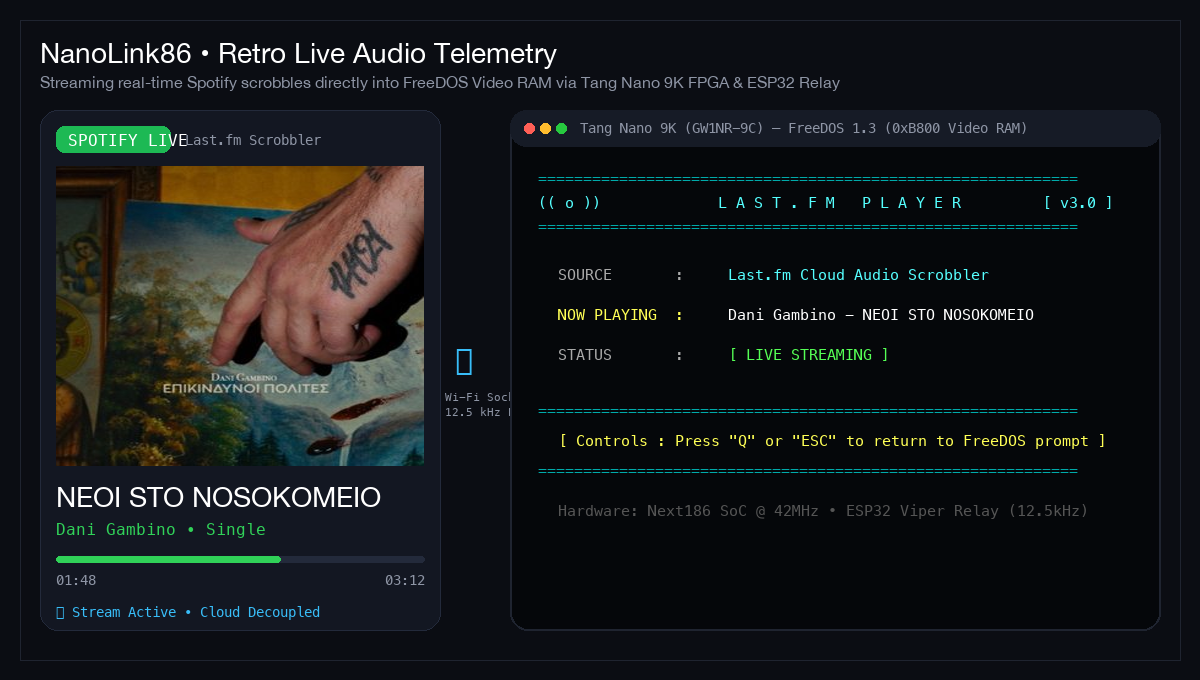
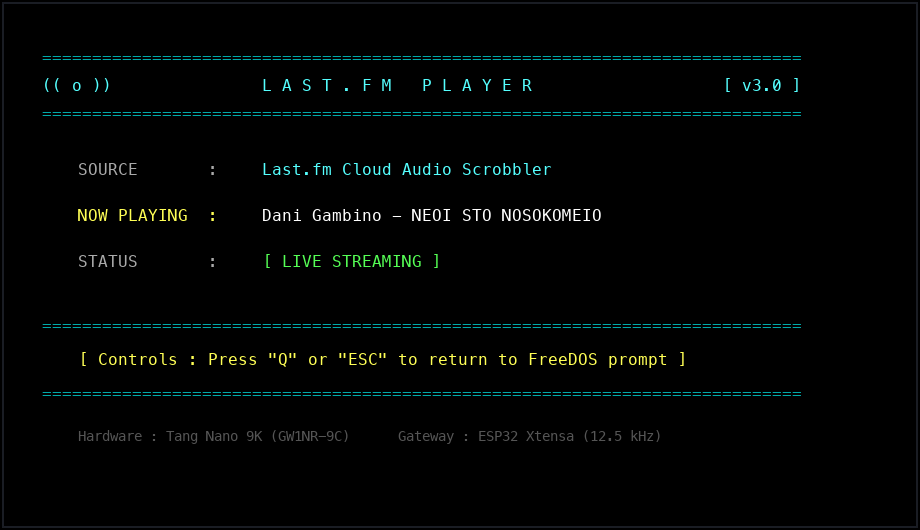
docs: replace showcase with pure native terminal screen capture

diff --git a/README.md b/README.md
@@ -102,7 +102,7 @@ Real-time captures demonstrating interactive software execution, live shell load
 #### 3⃣ Retro Live Audio Telemetry & Spotify Stream
 
 <p align="center">
-  <img src="assets/live_audio_player_demo.png" width="95%" alt="Retro Live Audio Telemetry: Spotify Stream running in FreeDOS Video RAM via NanoLink86" />
+  <img src="assets/live_audio_player_demo.png" width="80%" alt="FreeDOS Live Audio Visualizer Terminal on Tang Nano 9K" />
 </p>
 
 * **Real-Time Spotify / Last.fm Telemetry**: Real-time song streaming from modern streaming services into native 16-bit 80186 Video RAM (`0xB800`) running inside FreeDOS on the Tang Nano 9K FPGA (`dos_apps/LASTFM.COM`).
